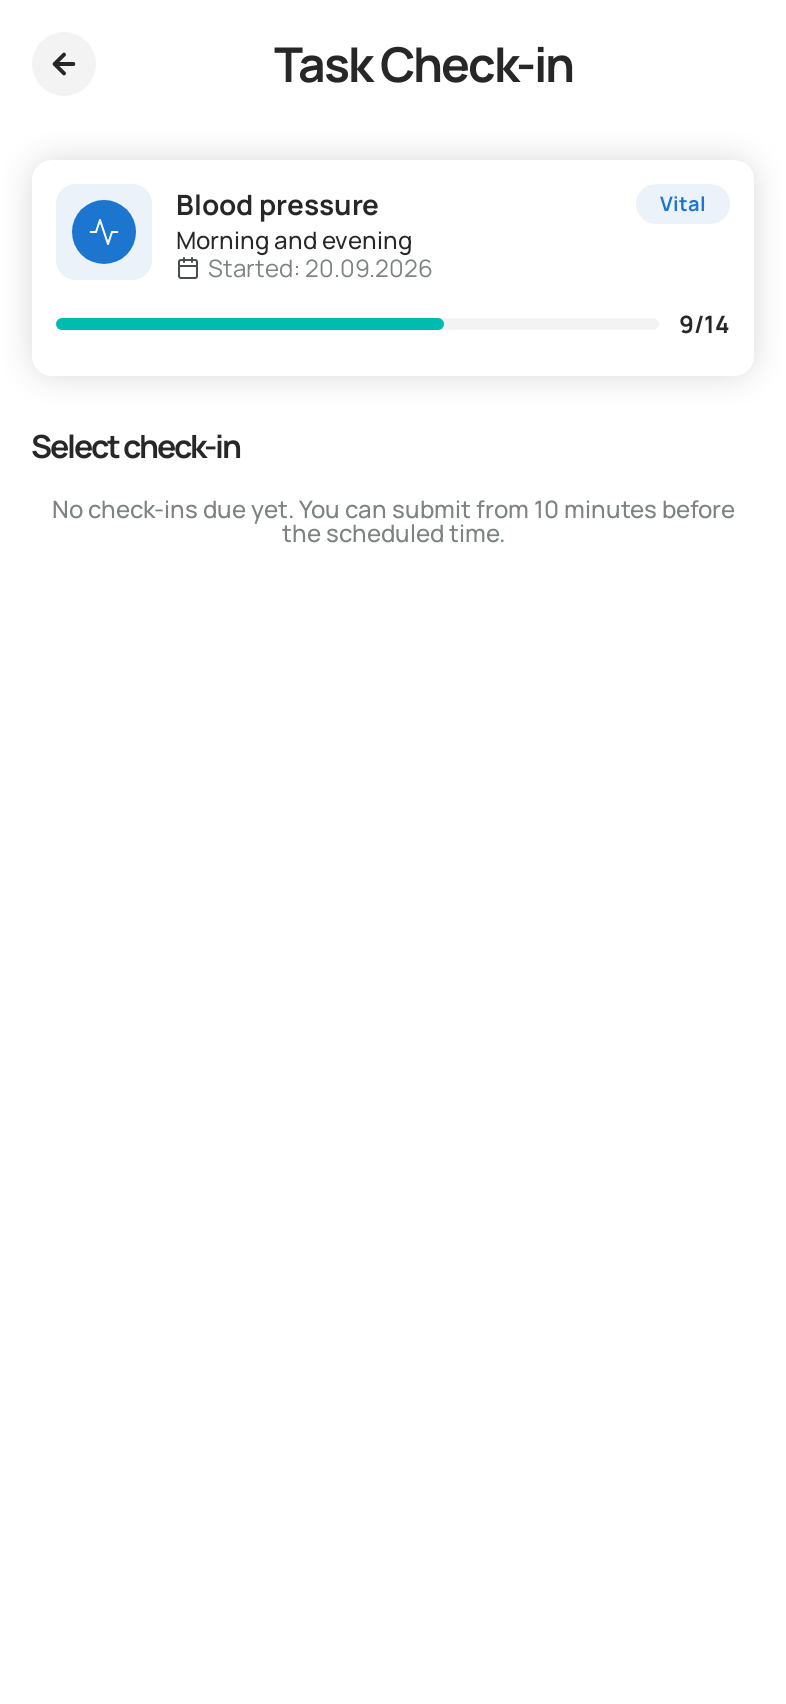
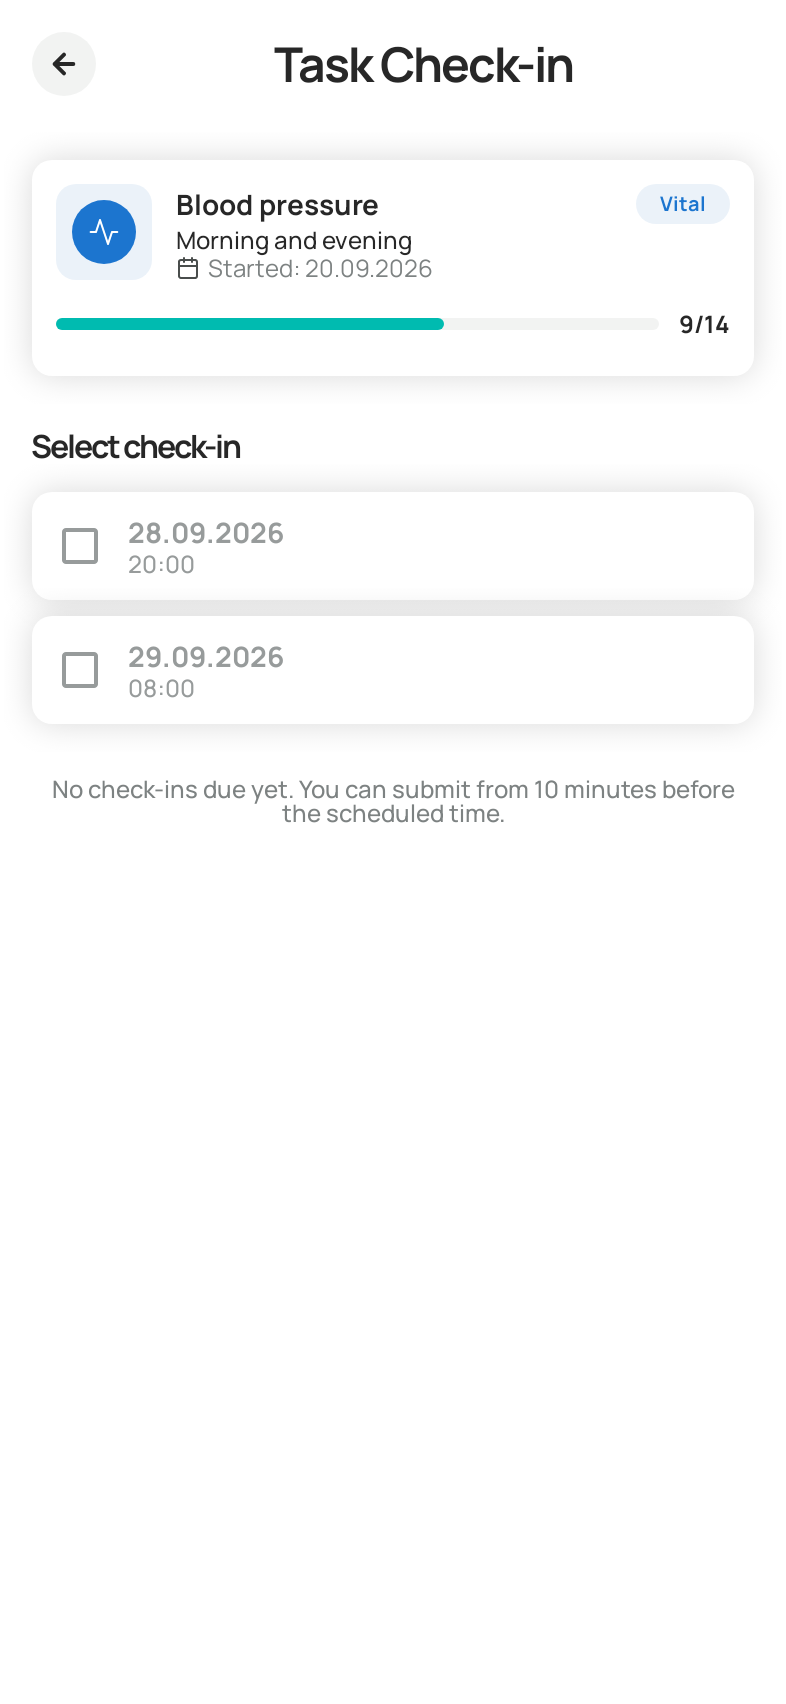
Add greyed upcoming check-ins and fix the required notes label
Task check-in lists the next 3 PENDING slots not due yet, greyed and untickable, under the due ones, so a task whose check-ins are all later no longer looks empty. ShifaCheckInCard takes enabled. Notes without a backend label are always required, so they read "Additional notes" instead of "(optional)". Backend doc asks which zone T3 times are in.

diff --git a/composeApp/src/commonMain/kotlin/shifa/uz/ui/tasks/TaskCheckInScreen.kt b/composeApp/src/commonMain/kotlin/shifa/uz/ui/tasks/TaskCheckInScreen.kt
@@ -14,6 +14,7 @@ import androidx.compose.foundation.rememberScrollState
 import androidx.compose.foundation.text.KeyboardOptions
 import androidx.compose.foundation.verticalScroll
 import androidx.compose.material3.ExperimentalMaterial3Api
+import androidx.compose.material3.MaterialTheme
 import androidx.compose.material3.Text
 import androidx.compose.material3.pulltorefresh.PullToRefreshBox
 import androidx.compose.runtime.Composable
@@ -23,11 +24,12 @@ import androidx.compose.runtime.getValue
 import androidx.compose.runtime.rememberUpdatedState
 import androidx.compose.ui.Modifier
 import androidx.compose.ui.text.input.KeyboardType
+import androidx.compose.ui.text.style.TextAlign
 import androidx.lifecycle.viewmodel.compose.viewModel
 import kotlinx.datetime.Instant
 import org.jetbrains.compose.resources.stringResource
 import shifa.composeapp.generated.resources.Res
-import shifa.composeapp.generated.resources.additionalNotesOptional
+import shifa.composeapp.generated.resources.additionalNotes
 import shifa.composeapp.generated.resources.checkInEnterGenericValue
 import shifa.composeapp.generated.resources.checkInEnterLabeledValue
 import shifa.composeapp.generated.resources.no
@@ -112,9 +114,11 @@ internal fun TaskCheckInContent(
                 TaskCard(state.task, now, null, progress = true)
                 // With a slot open, the error shows above its Submit instead.
                 Banners(state.error.takeIf { state.selected == null })
+                // The due slots, then the next ones greyed; with none due, the 10-minute rule is spelled out under them.
+                val nothingDue = state.slots?.isEmpty() == true && state.upcoming.isNotEmpty()
                 HomeSection(
                     Res.string.selectCheckIn,
-                    state.slots,
+                    state.slots?.let { it + state.upcoming },
                     state.isLoading,
                     if (state.waiting) Res.string.taskCheckInNotYetAvailable else Res.string.noPendingCheckIns,
                     limit = Int.MAX_VALUE,
@@ -124,7 +128,17 @@ internal fun TaskCheckInContent(
                         slot.scheduledTime?.take(5),
                         slot.id == state.selected,
                         { onSelect(slot.id, it) },
+                        enabled = slot !in state.upcoming,
                     ) { CheckInForm(state, onValueChange, onAnswer, onNotesChange, onSubmit) }
+                }
+                if (nothingDue) {
+                    Text(
+                        stringResource(Res.string.taskCheckInNotYetAvailable),
+                        Modifier.fillMaxWidth(),
+                        style = MaterialTheme.typography.bodyMedium,
+                        color = ShifaColors.Text.Tertiary,
+                        textAlign = TextAlign.Center,
+                    )
                 }
             }
         }
@@ -176,7 +190,7 @@ private fun ColumnScope.CheckInForm(
         ShifaInputField(
             state.notes,
             onNotesChange,
-            state.task.notesLabel ?: stringResource(Res.string.additionalNotesOptional),
+            state.task.notesLabel ?: stringResource(Res.string.additionalNotes),
             Modifier.fillMaxWidth(),
             supportingText = notesError,
             isError = notesError != null,

diff --git a/composeApp/src/commonMain/kotlin/shifa/uz/ui/widgets/ShifaCards.kt b/composeApp/src/commonMain/kotlin/shifa/uz/ui/widgets/ShifaCards.kt
@@ -244,7 +244,10 @@ fun ShifaDoctorServiceCard(
     CardBody(price, ShifaColors.Text.Link, MaterialTheme.typography.bodyMedium.copy(fontWeight = FontWeight.Bold))
 }
 
-/** Figma display-card, types check-in (unchecked) and check-if-fill (checked: [form], the input + submit). */
+/**
+ * Figma display-card, types check-in (unchecked) and check-if-fill (checked: [form], the input + submit).
+ * Not in Figma: a greyed, untickable card when not [enabled].
+ */
 @Composable
 fun ShifaCheckInCard(
     title: String,
@@ -252,22 +255,30 @@ fun ShifaCheckInCard(
     checked: Boolean,
     onCheckedChange: (Boolean) -> Unit,
     modifier: Modifier = Modifier,
+    enabled: Boolean = true,
     form: @Composable ColumnScope.() -> Unit = {},
 ) {
     CardChrome(modifier, onClick = null, gap = ShifaDimens.CheckInCardGap) {
         Row(
-            Modifier.fillMaxWidth().toggleable(checked, role = Role.Checkbox, onValueChange = onCheckedChange),
+            Modifier
+                .fillMaxWidth()
+                .toggleable(checked, enabled = enabled, role = Role.Checkbox, onValueChange = onCheckedChange),
             horizontalArrangement = Arrangement.spacedBy(ShifaSpacing.Gap.Md),
             verticalAlignment = Alignment.CenterVertically,
         ) {
             Icon(
                 painterResource(if (checked) Res.drawable.ic_checkbox_checked_24 else Res.drawable.ic_checkbox_24),
                 null,
-                tint = if (checked) ShifaColors.Icon.Brand else ShifaColors.Icon.Primary,
+                tint =
+                    when {
+                        !enabled -> ShifaColors.Icon.Disabled
+                        checked -> ShifaColors.Icon.Brand
+                        else -> ShifaColors.Icon.Primary
+                    },
             )
             Column(Modifier.weight(1f), verticalArrangement = Arrangement.spacedBy(ShifaSize.S2)) {
-                CardTitle(title)
-                subtitle?.let { CardBody(it, ShifaColors.Text.Tertiary) }
+                CardTitle(title, color = if (enabled) ShifaColors.Text.Primary else ShifaColors.Text.Disabled)
+                subtitle?.let { CardBody(it, if (enabled) ShifaColors.Text.Tertiary else ShifaColors.Text.Disabled) }
             }
         }
         if (checked) form()

diff --git a/composeApp/src/commonMain/kotlin/shifa/uz/ui/tasks/TaskCheckInViewModel.kt b/composeApp/src/commonMain/kotlin/shifa/uz/ui/tasks/TaskCheckInViewModel.kt
@@ -24,6 +24,7 @@ import shifa.uz.data.tasks.TasksRepository
 import shifa.uz.ui.tasks.TaskCheckInUiState.Companion.BOOLEAN
 import shifa.uz.ui.tasks.TaskCheckInUiState.Companion.NUMERIC
 import shifa.uz.ui.tasks.TaskCheckInUiState.Companion.TEXT
+import shifa.uz.ui.tasks.TaskCheckInUiState.Companion.UPCOMING_SLOTS
 import shifa.uz.utils.getCurrentInstant
 import kotlin.time.Duration.Companion.minutes
 
@@ -66,10 +67,20 @@ class TaskCheckInViewModel(
                 onSuccess = { all ->
                     val pending = all.filter { it.isPending }
                     val due = clock() + 10.minutes
-                    val slots = pending.filter { it.scheduledAt(zone)?.let { at -> at <= due } == true }
+                    val (slots, later) =
+                        pending
+                            .mapNotNull { slot -> slot.scheduledAt(zone)?.let { slot to it } }
+                            .partition { it.second <= due }
+                    val upcoming = later.sortedBy { it.second }.take(UPCOMING_SLOTS).map { it.first }
                     update {
-                        val kept = if (slots.any { it.id == selected }) this else copy(selected = null).cleared()
-                        kept.copy(slots = slots, waiting = pending.isNotEmpty(), isLoading = false, error = null)
+                        val kept = if (slots.any { it.first.id == selected }) this else copy(selected = null).cleared()
+                        kept.copy(
+                            slots = slots.map { it.first },
+                            upcoming = upcoming,
+                            waiting = pending.isNotEmpty(),
+                            isLoading = false,
+                            error = null,
+                        )
                     }
                 },
                 onFailure = {

diff --git a/composeApp/src/commonMain/kotlin/shifa/uz/ui/tasks/TaskCheckInUiState.kt b/composeApp/src/commonMain/kotlin/shifa/uz/ui/tasks/TaskCheckInUiState.kt
@@ -5,11 +5,15 @@ import org.jetbrains.compose.resources.StringResource
 import shifa.uz.data.model.RemoteCareTask
 import shifa.uz.data.model.TaskCheckIn
 
-/** [slots]: the PENDING check-ins due within 10 minutes, null until T3 first loads. The form is for [selected]. */
+/**
+ * [slots]: the PENDING check-ins due within 10 minutes, null until T3 first loads. The form is for [selected].
+ * [upcoming]: the next PENDING ones not due yet, soonest first, shown greyed so the patient sees when they open.
+ */
 @Stable
 data class TaskCheckInUiState(
     val task: RemoteCareTask,
     val slots: List<TaskCheckIn>? = null,
+    val upcoming: List<TaskCheckIn> = emptyList(),
     val waiting: Boolean = false, // some are PENDING, none due yet
     val isLoading: Boolean = false,
     val selected: Long? = null,
@@ -32,5 +36,6 @@ data class TaskCheckInUiState(
         const val NUMERIC = "NUMERIC"
         const val BOOLEAN = "BOOLEAN"
         const val TEXT = "TEXT"
+        const val UPCOMING_SLOTS = 3
     }
 }

diff --git a/composeApp/src/androidUnitTest/kotlin/shifa/uz/ui/tasks/TaskCheckInViewModelTest.kt b/composeApp/src/androidUnitTest/kotlin/shifa/uz/ui/tasks/TaskCheckInViewModelTest.kt
@@ -76,7 +76,22 @@ class TaskCheckInViewModelTest {
             open()
 
             assertThat(state.slots).containsExactly(past, soon).inOrder()
+            assertThat(state.upcoming).containsExactly(later)
             assertThat(state.waiting).isTrue()
+        }
+
+    @Test
+    fun `the next 3 PENDING slots not due yet are shown soonest first`() =
+        runTest {
+            val slots =
+                listOf("2026-09-30", "2026-09-29", "2026-10-01", "2026-10-02").mapIndexed { i, day ->
+                    TaskCheckIn(10L + i, day, "08:00:00")
+                }
+            wheneverBlocking { tasks.getCheckIns("7") } doReturn Result.success(slots + later + done)
+            open()
+
+            assertThat(state.slots).isEmpty()
+            assertThat(state.upcoming).containsExactly(later, slots[1], slots[0]).inOrder()
         }
 
     @Test

diff --git a/composeApp/src/androidMain/kotlin/shifa/uz/ui/tasks/TasksPreviews.kt b/composeApp/src/androidMain/kotlin/shifa/uz/ui/tasks/TasksPreviews.kt
@@ -80,4 +80,14 @@ internal fun TaskCheckInSelectedPreview() =
 @Preview(widthDp = 393, heightDp = 852)
 @Composable
 internal fun TaskCheckInWaitingPreview() =
-    PreviewTheme { TaskCheckInContent(TaskCheckInUiState(pressure, slots = emptyList(), waiting = true), now) }
+    PreviewTheme {
+        TaskCheckInContent(
+            TaskCheckInUiState(
+                pressure,
+                slots = emptyList(),
+                upcoming = listOf(TaskCheckIn(3, "2026-09-28", "20:00:00"), TaskCheckIn(4, "2026-09-29", "08:00:00")),
+                waiting = true,
+            ),
+            now,
+        )
+    }

diff --git a/docs/implemented/README.md b/docs/implemented/README.md
@@ -61,7 +61,7 @@ What we need from the backend team: [../backend-improvements.md](../backend-impr
 | BOOK-05 Bookings list | Partly done | The Figma tab: Recommended doctors, My Doctors, Past Appointments on All (other chips: doctors only), each arrow opening its full page. No status tabs, upcoming list or pay later (not in Figma; BOOK-04 not built). |
 | BOOK-06 Appointment details, cancel, reschedule | Mostly done | Figma details, Contact (tel / mailto), cancel with confirm ≥ 48 h (B5) that refreshes the list and Home, the < 48 h warning. No reschedule yet. Not tried on a device (no appointments). |
 | TASK-01 Tasks list | Mostly done | Figma Open / Completed tabs over T1, progress bars on Open, pull to refresh. EXPIRED with nothing pending shows in both tabs (quirk 1). No ⋮ menu (not in Figma), no reload on resume. |
-| TASK-02 Task check-in | Mostly done | Figma page: T3 slots due within 10 minutes, the form in the ticked card for NUMERIC / TEXT / BOOLEAN with notes, T4, then My Tasks reloads with a notice and Home refreshes. No T2 (deep links), no ticker. Not submitted on a device (production). |
+| TASK-02 Task check-in | Mostly done | Figma page: T3 slots due within 10 minutes plus the next 3 greyed, the form in the ticked card for NUMERIC / TEXT / BOOLEAN with notes, T4, then My Tasks reloads with a notice and Home refreshes. No T2 (deep links), no ticker. Not submitted on a device (production). |
 | NOTIF-01 Inbox, details sheet, badge | Mostly done | Figma inbox with filter chips, date groups and the 13 §6.3 texts, pull to refresh, N3 on tap, N4 from the header, the bell refreshes. The details tray shows the linked appointment, document or task card with its button. Unread titles are brand (Figma has no unread look). No ⋮ menu (not in Figma). |
 | NOTIF-03 FCM token & push display | Done, not tried on a device | Firebase Messaging on Android and iOS (SPM). P7 after login and on each token refresh; logout sends `""`. The permission is asked after login. `shifa_patient_channel` is the manifest default, so background pushes use it too. Foreground pushes show as notifications with the backend's text, and they refresh the bell. |
 | NOTIF-04 Tap routing | Partly done | Inbox trays and push taps (background and cold start, after sign-in) open appointment details, the document viewer, the check-in, or the Bookings / Documents / My Tasks list when the item isn't found. Other push types open the inbox. No routes to screens that don't exist yet. |
@@ -92,3 +92,4 @@ What we need from the backend team: [../backend-improvements.md](../backend-impr
 - 2026-09-28: Added `docs/backend-improvements.md`: what the app needs from the backend team (localized push text, per-device push tokens, a staging backend, error codes and more).
 - 2026-09-28: Built Shifa AI (AI-01, Figma 1655:16752, 1673:14621, 1673:14790, 1681:13859): the chats tab with search and New Chat, the chat with streamed X1 replies, local chats cleared on logout, the rate limit, delete chat, and the tab gating. Documents' upload tray takes a title; sent chat bubbles align their text to the end.
 - 2026-09-28: Home: the Upcoming arrow (more than 3 visits) opens an Upcoming appointments page instead of the Bookings tab; the full-list pages share `ListPage`. The greeting and avatar take the saved profile from P2's reply, so a name change shows without a refetch.
+- 2026-09-28: Task check-in: the next 3 PENDING slots not due yet show greyed under the due ones, so a task whose check-ins are all later no longer looks empty. `ShifaCheckInCard` takes `enabled`. Required notes no longer say "(optional)".

diff --git a/docs/implemented/tasks.md b/docs/implemented/tasks.md
@@ -11,10 +11,10 @@
 ## Task check-in (`TaskCheckInScreen.kt`, TASK-02)
 
 - Figma: `1662:18317`. An overlay above My Tasks. It shows the list's task card with its progress (no T2 refetch), then "Select check-in" with the T3 slots.
-- Slots: PENDING ones (an unknown status counts as PENDING) due within 10 minutes, on the device's clock (the server's zone is unverified, as in Flutter). A slot whose date doesn't parse is left out. With PENDING slots but none due: "No check-ins due yet…"; with none PENDING: "No pending check-ins". Worked out on load and pull to refresh, with no ticker (12 quirk 10). A reload keeps the ticked slot while it's still listed.
+- Slots: PENDING ones (an unknown status counts as PENDING) due within 10 minutes, on the device's clock (the server's zone is unverified, as in Flutter). A slot whose date doesn't parse is left out. Below the due ones, the next 3 PENDING slots not due yet show greyed and can't be ticked (not in Figma), so the patient sees when the next one opens. With none due: "No check-ins due yet…" under the greyed ones (or alone if none parse); with none PENDING: "No pending check-ins". Worked out on load and pull to refresh, with no ticker (12 quirk 10). A reload keeps the ticked slot while it's still listed.
 - Ticking a slot opens its form in the card (Figma check-if-fill) and starts it empty. Ticking another one moves the form. The form has:
   - NUMERIC: a decimal field; a comma works as the decimal point. TEXT, and any other type: a text field. The label is "Enter {inputLabel}", else the generic one. BOOLEAN: Yes / No chips.
-  - Notes, when the task requires them or has a notes label. Required notes can't be blank.
+  - Notes, when the task requires them or has a notes label. Required notes can't be blank. Without a label they read "Additional notes" (Flutter said "optional", but a field with no label is always required).
   - Submit.
 - Values and notes are trimmed, so whitespace isn't a value. T4 sends only the set fields. Success closes the page, reloads My Tasks with "Check-in submitted successfully", and refreshes Home. A failure keeps the form with the error; the three T4 validation messages are localized. A 401 logs out.
 - Not built: multi-line fields, the example-value hint (quirk 6), and T2 with the notification deep links (NOTIF). Not submitted on a device (production).

diff --git a/docs/backend-improvements.md b/docs/backend-improvements.md
@@ -104,6 +104,7 @@ Keep P7 working for old app versions until they're gone.
 - Whether the error shape is the same across all controllers (see #4).
 - Whether P4 `/profile/photo` exists.
 - Whether B1 `day` uses the device time zone or the profile `timeZone`.
+- Which zone T3 `scheduledDate` / `scheduledTime` are in. The app reads them on the device clock, so outside Tashkent a check-in opens hours early or late.
 - All values of `paymentStatus`, payment `status`, AI summary `status` and appointment `status` (e.g. `REQUESTED`).
 - Whether P5 sends the deletion code itself, and how the A4 `purpose=ACCOUNT_DELETION` code is tied to `challengeId`.
 - Whether the server enforces the video join window and the task check-in window.
